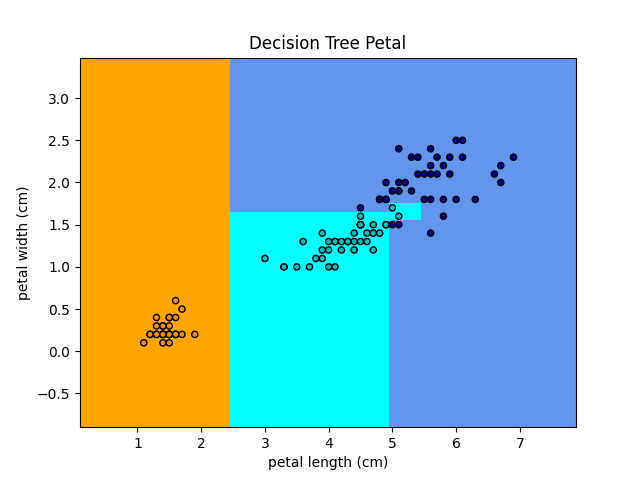
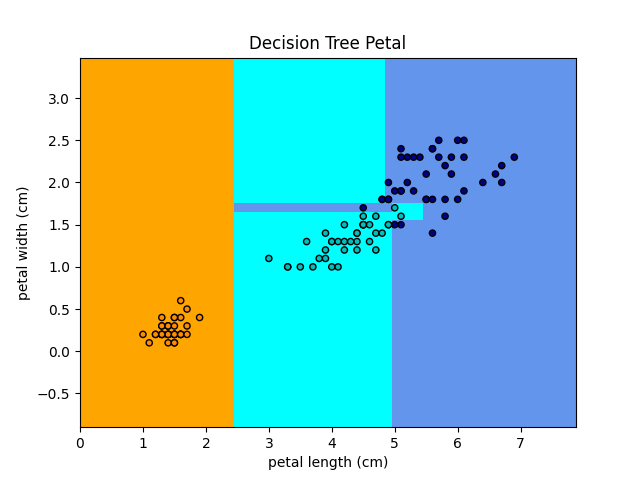
changing the way it plots

diff --git a/A/main.py b/A/main.py
@@ -11,11 +11,7 @@ import numpy as np
 import copy
 
 iris = datasets.load_iris()
-
-irisSplit = copy.deepcopy(iris)
 X_train, X_test, y_train, y_test = train_test_split(iris.data, iris.target, test_size = 0.20)
-irisSplit.data = X_train
-irisSplit.target = y_train
 
 def makeTestPrediction(model, iris):
     value = [5, 3.4, 1.6, 0.4]
@@ -34,20 +30,21 @@ def plotData(x, y, title):
     plt.clf()
     # plt.show()
 
-def plotClf(model, iris, title, plotSepal=True):
+def plotClf(model, iris, X_train, y_train, title, plotSepal=True, supervised=True):
     plt.clf()
     h = .02  # step size in the mesh
 
     if (plotSepal):
         baseIndex = 0
-        X = iris.data[:, :2]
-        y = iris.target
+        X = X_train[:, :2]
     else: 
         baseIndex = 2
-        X = iris.data[:, 2:]
-        y = iris.target
+        X = X_train[:, 2:]
 
-    model.fit(X, y)    
+    if supervised:
+        model.fit(X, y_train)
+    else: 
+        model.fit(X)
 
     # Create color maps
     cmap_light = ListedColormap(['orange', 'cyan', 'cornflowerblue'])
@@ -66,7 +63,52 @@ def plotClf(model, iris, title, plotSepal=True):
     plt.pcolormesh(xx, yy, Z, cmap=cmap_light)
 
     # Plot also the training points
-    plt.scatter(X[:, 0], X[:, 1], c=y, cmap=cmap_bold, edgecolor='k', s=20)
+    plt.scatter(X[:, 0], X[:, 1], c=y_train, cmap=cmap_bold, edgecolor='k', s=20)
+    if not supervised:
+        plt.scatter(model.cluster_centers_[:,0] ,model.cluster_centers_[:,1], color='red')
+    plt.xlim(xx.min(), xx.max())
+    plt.ylim(yy.min(), yy.max())
+    plt.title(title)
+    plt.xlabel(iris.feature_names[baseIndex])
+    plt.ylabel(iris.feature_names[baseIndex + 1])
+    plt.savefig("A/images/" + title.replace(" ", "-"))
+    # plt.show()
+
+def plotClfTestData(model, iris, X_train, X_test, y_train, y_test, title, plotSepal=True, supervised=True):
+    plt.clf()
+    h = .02  # step size in the mesh
+
+    if (plotSepal):
+        baseIndex = 0
+        X_train = X_train[:, :2]
+        X_test = X_test[:, :2]
+    else: 
+        baseIndex = 2
+        X_train = X_train[:, 2:]
+        X_test = X_test[:, 2:]
+
+    model.fit(X_train, y_train)    
+
+    # Create color maps
+    cmap_light = ListedColormap(['orange', 'cyan', 'cornflowerblue'])
+    cmap_bold = ListedColormap(['darkorange', 'c', 'darkblue'])
+
+    # Plot the decision boundary. For that, we will assign a color to each
+    # point in the mesh [x_min, x_max]x[y_min, y_max].
+    x_min, x_max = X_train[:, 0].min() - 1, X_train[:, 0].max() + 1
+    y_min, y_max = X_train[:, 1].min() - 1, X_train[:, 1].max() + 1
+    xx, yy = np.meshgrid(np.arange(x_min, x_max, h), np.arange(y_min, y_max, h))
+    Z = model.predict(np.c_[xx.ravel(), yy.ravel()])
+
+    # Put the result into a color plot
+    Z = Z.reshape(xx.shape)
+    # plt.figure()
+    plt.pcolormesh(xx, yy, Z, cmap=cmap_light)
+
+    # Plot also the training points
+    plt.scatter(X_test[:, 0], X_test[:, 1], c=y_test, cmap=cmap_bold, edgecolor='k', s=20)
+    if not supervised:
+        plt.scatter(model.cluster_centers_[:,0] ,model.cluster_centers_[:,1], color='red')
     plt.xlim(xx.min(), xx.max())
     plt.ylim(yy.min(), yy.max())
     plt.title(title)
@@ -83,45 +125,57 @@ if __name__ == "__main__":
     print("Iris target names:")
     print(iris.target_names)
 
-    print("IrisSplit data:")
-    print(irisSplit.data)
-    print("IrisSplit target:")
-    print(irisSplit.target)
-    print("IrisSplit target names:")
-    print(irisSplit.target_names)
+    print("X_train:")
+    print(X_train)
+    print("X_test:")
+    print(X_test)
+    print("y_train:")
+    print(y_train)
+    print("y_test:")
+    print(y_test)
 
     plotData(0,1,"Iris classification according to Sepal measurements")
     plotData(2,3,"Iris classification according to Petal measurements")
 
     print("Performing Decision Tree             ", end="    ")
-    model = dtree.decisionTree(irisSplit)
-    makeTestPrediction(model, irisSplit)
-    dtree.plotDecisionTree(irisSplit, model)
-    plotClf(model, irisSplit, "Decision Tree Petal", plotSepal=False)
-    plotClf(model, irisSplit, "Decision Tree Sepal", plotSepal=True)
+    model = dtree.decisionTree(X_train, y_train)
+    makeTestPrediction(model, iris)
+    dtree.plotDecisionTree(model)
+    plotClf(model, iris, X_train, y_train, "Decision Tree Petal", plotSepal=False)
+    plotClf(model, iris, X_train, y_train, "Decision Tree Sepal", plotSepal=True)
+    plotClfTestData(model, iris, X_train, X_test, y_train, y_test, "Decision Tree Petal Test Data", plotSepal=False)
+    plotClfTestData(model, iris, X_train, X_test, y_train, y_test, "Decision Tree Sepal Test Data", plotSepal=True)
 
     print("Performing Decision Tree Max Depth 4 ", end="    ")
-    model = dtree.decisionTree(irisSplit, max_depth=4)
-    makeTestPrediction(model, irisSplit)
-    plotClf(model, irisSplit, "Decision Tree Petal Max depth 4", plotSepal=False)
-    plotClf(model, irisSplit, "Decision Tree Sepal Max depth 4", plotSepal=True)
+    model = dtree.decisionTree(X_train, y_train, max_depth=4)
+    makeTestPrediction(model, iris)
+    plotClf(model, iris, X_train, y_train, "Decision Tree Petal Max depth 4", plotSepal=False)
+    plotClf(model, iris, X_train, y_train, "Decision Tree Sepal Max depth 4", plotSepal=True)
+    plotClfTestData(model, iris, X_train, X_test, y_train, y_test, "Decision Tree Petal Max depth 4 Test Data", plotSepal=False)
+    plotClfTestData(model, iris, X_train, X_test, y_train, y_test, "Decision Tree Sepal Max depth 4 Test Data", plotSepal=True)
 
     print("Performing K Nearest Neighbors       ", end="    ")
-    model = knn.kNearestNeighbors(irisSplit, 3)
-    makeTestPrediction(model, irisSplit)
-    plotClf(model, irisSplit, "Knn Petal", plotSepal=False)
-    plotClf(model, irisSplit, "Knn Sepal", plotSepal=True)
+    model = knn.kNearestNeighbors(X_train, y_train, 3)
+    makeTestPrediction(model, iris)
+    plotClf(model, iris, X_train, y_train, "Knn Petal", plotSepal=False)
+    plotClf(model, iris, X_train, y_train, "Knn Sepal", plotSepal=True)
+    plotClfTestData(model, iris, X_train, X_test, y_train, y_test, "Knn Petal Test Data", plotSepal=False)
+    plotClfTestData(model, iris, X_train, X_test, y_train, y_test, "Knn Sepal Test Data", plotSepal=True)
 
     print("Performing K Means Clustering        ", end="    ")
-    model = kmeansclustering.kMeansClustering(irisSplit, numberOfClusters=3)
-    makeTestPrediction(model, irisSplit) # This is off because the index of the clusters don't match
-    kmeansclustering.plotKMeansClustering(model, irisSplit, "K Means Clustering Petal", plotSepal=False)
-    kmeansclustering.plotKMeansClustering(model, irisSplit, "K Means Clustering Sepal", plotSepal=True)
+    model = kmeansclustering.kMeansClustering(X_train, numberOfClusters=3)
+    makeTestPrediction(model, iris) # This is off because the index of the clusters don't match
+    plotClf(model, iris, X_train, y_train, "K Means Clustering Petal", plotSepal=False, supervised=False)
+    plotClf(model, iris, X_train, y_train, "K Means Clustering Sepal", plotSepal=True, supervised=False)
+    plotClfTestData(model, iris, X_train, X_test, y_train, y_test, "K Means Clustering Petal Test Data", plotSepal=False, supervised=False)
+    plotClfTestData(model, iris, X_train, X_test, y_train, y_test, "K Means Clustering Sepal Test Data", plotSepal=True, supervised=False)
     
     print("Performing Back propagation          ", end="    ")
     model = bp.backPropagation(X_train, X_test, y_train, y_test)
-    makeTestPrediction(model, irisSplit)
-    plotClf(model, irisSplit, "Back propagation Sepal", plotSepal=True)
-    plotClf(model, irisSplit, "Back propagation Petal", plotSepal=False)
+    makeTestPrediction(model, iris)
+    plotClf(model, iris, X_train, y_train, "Back propagation Sepal", plotSepal=True)
+    plotClf(model, iris, X_train, y_train, "Back propagation Petal", plotSepal=False)
+    plotClfTestData(model, iris, X_train, X_test, y_train, y_test, "Back propagation Petal Test Data", plotSepal=False)
+    plotClfTestData(model, iris, X_train, X_test, y_train, y_test, "Back propagation Sepal Test Data", plotSepal=True)
 
 # TODO: k Means Clustering

diff --git a/A/kmeansclustering.py b/A/kmeansclustering.py
@@ -3,49 +3,7 @@ from matplotlib.colors import ListedColormap
 import numpy as np
 from sklearn.cluster import KMeans
 
-def kMeansClustering(iris, numberOfClusters=3):
+def kMeansClustering(X_train, numberOfClusters=3):
     kmeans = KMeans(n_clusters=numberOfClusters)
-    kmeans.fit(iris.data)
+    kmeans.fit(X_train)
     return kmeans
-
-def plotKMeansClustering(model, iris, title, plotSepal=True):
-    plt.clf()
-    h = .02  # step size in the mesh
-
-    if (plotSepal):
-        baseIndex = 0
-        X = iris.data[:, :2]
-    else: 
-        baseIndex = 2
-        X = iris.data[:, 2:]
-
-    y = iris.target
-
-    model.fit(X)
-
-    # Create color maps
-    cmap_light = ListedColormap(['orange', 'cyan', 'cornflowerblue'])
-    cmap_bold = ListedColormap(['darkorange', 'c', 'darkblue'])
-
-    # Plot the decision boundary. For that, we will assign a color to each
-    # point in the mesh [x_min, x_max]x[y_min, y_max].
-    x_min, x_max = X[:, 0].min() - 1, X[:, 0].max() + 1
-    y_min, y_max = X[:, 1].min() - 1, X[:, 1].max() + 1
-    xx, yy = np.meshgrid(np.arange(x_min, x_max, h), np.arange(y_min, y_max, h))
-    Z = model.predict(np.c_[xx.ravel(), yy.ravel()])
-
-    # Put the result into a color plot
-    Z = Z.reshape(xx.shape)
-    # plt.figure()
-    plt.pcolormesh(xx, yy, Z, cmap=cmap_light)
-
-    # Plot also the training points
-    plt.scatter(X[:, 0], X[:, 1], c=y, cmap=cmap_bold, edgecolor='k', s=20)
-    plt.scatter(model.cluster_centers_[:,0] ,model.cluster_centers_[:,1], color='red')
-    plt.xlim(xx.min(), xx.max())
-    plt.ylim(yy.min(), yy.max())
-    plt.title(title)
-    plt.xlabel(iris.feature_names[baseIndex])
-    plt.ylabel(iris.feature_names[baseIndex + 1])
-    plt.savefig("A/images/" + title.replace(" ", "-"))
-    # plt.show()

diff --git a/A/decisiontree.py b/A/decisiontree.py
@@ -2,18 +2,18 @@
 from sklearn import tree
 import graphviz 
 
-def decisionTree(iris, max_depth=0):
+def decisionTree(X_train, y_train, max_depth=0):
     if max_depth is not 0:
         model = tree.DecisionTreeClassifier(max_depth=max_depth)
     else:
         model = tree.DecisionTreeClassifier()
     
-    model = model.fit(iris.data, iris.target)
+    model = model.fit(X_train, y_train)
     return model
 
 
-def plotDecisionTree(iris, model):
-    tree.plot_tree(model.fit(iris.data, iris.target)) 
+def plotDecisionTree(model):
+    tree.plot_tree((model)) 
 
     dot_data = tree.export_graphviz(model, out_file=None) 
     graph = graphviz.Source(dot_data) 

diff --git a/A/backpropagation.py b/A/backpropagation.py
@@ -12,15 +12,3 @@ def backPropagation(X_train, X_test, y_train, y_test):
     mlp = MLPClassifier(hidden_layer_sizes=(10, 10, 10), max_iter=1000)
     mlp.fit(X_train, y_train.ravel()) # This was y_train.values.ravel()
     return mlp
-
-def plotBackPropagation(iris, model):
-    # y_test, predictions = model
-    # print("Confusion Matrix: ")
-    # print(confusion_matrix(y_test,predictions))
-
-    # print("")
-
-    # print("Classification Report: ")
-    # print(classification_report(y_test,predictions))
-
-    pass

diff --git a/A/knn.py b/A/knn.py
@@ -2,11 +2,8 @@
 # pylint: disable=maybe-no-member
 from sklearn.neighbors import KNeighborsClassifier
 
-def kNearestNeighbors(iris, k):
+def kNearestNeighbors(X_train, y_train, k):
     model = KNeighborsClassifier(n_neighbors=k)
-    # model = model.fit(iris.data, iris.target)
-    X = iris.data
-    y = iris.target
 
-    model = model.fit(X, y)
+    model = model.fit(X_train, y_train)
     return model

diff --git a/report.md b/report.md
@@ -30,7 +30,7 @@ _Which classification learning algorithm performed best?_
 
 ![DTree Petal](A/images/decisiontree.png)</br>
 
-In order to visualize the effectiveness of the decision tree aglorithm on this data set, the attributes were divided between petal and sepal and plotted. The shaded regions represent the category boundaries created by the AI, and the data points are actual data points in the training set. These graphs show that the training data properly categorizes all of the training data, but decision trees can often overfit data. 
+In order to visualize the effectiveness of the decision tree aglorithm on this data set, the attributes were divided between petal and sepal and plotted on a graph. The shaded regions represent the category boundaries created by the AI, and the data points are actual data points in the training set. The decision tree in the first row was created without a max depth. They show that the training data properly categorizes all of the training data, but decision trees can often overfit data.</br>
 
 Max Depth |Petal                                                                       |  Sepal
 ---------:|:--------------------------------------------------------------------------:|:--------------------------------------------------------------------------:
